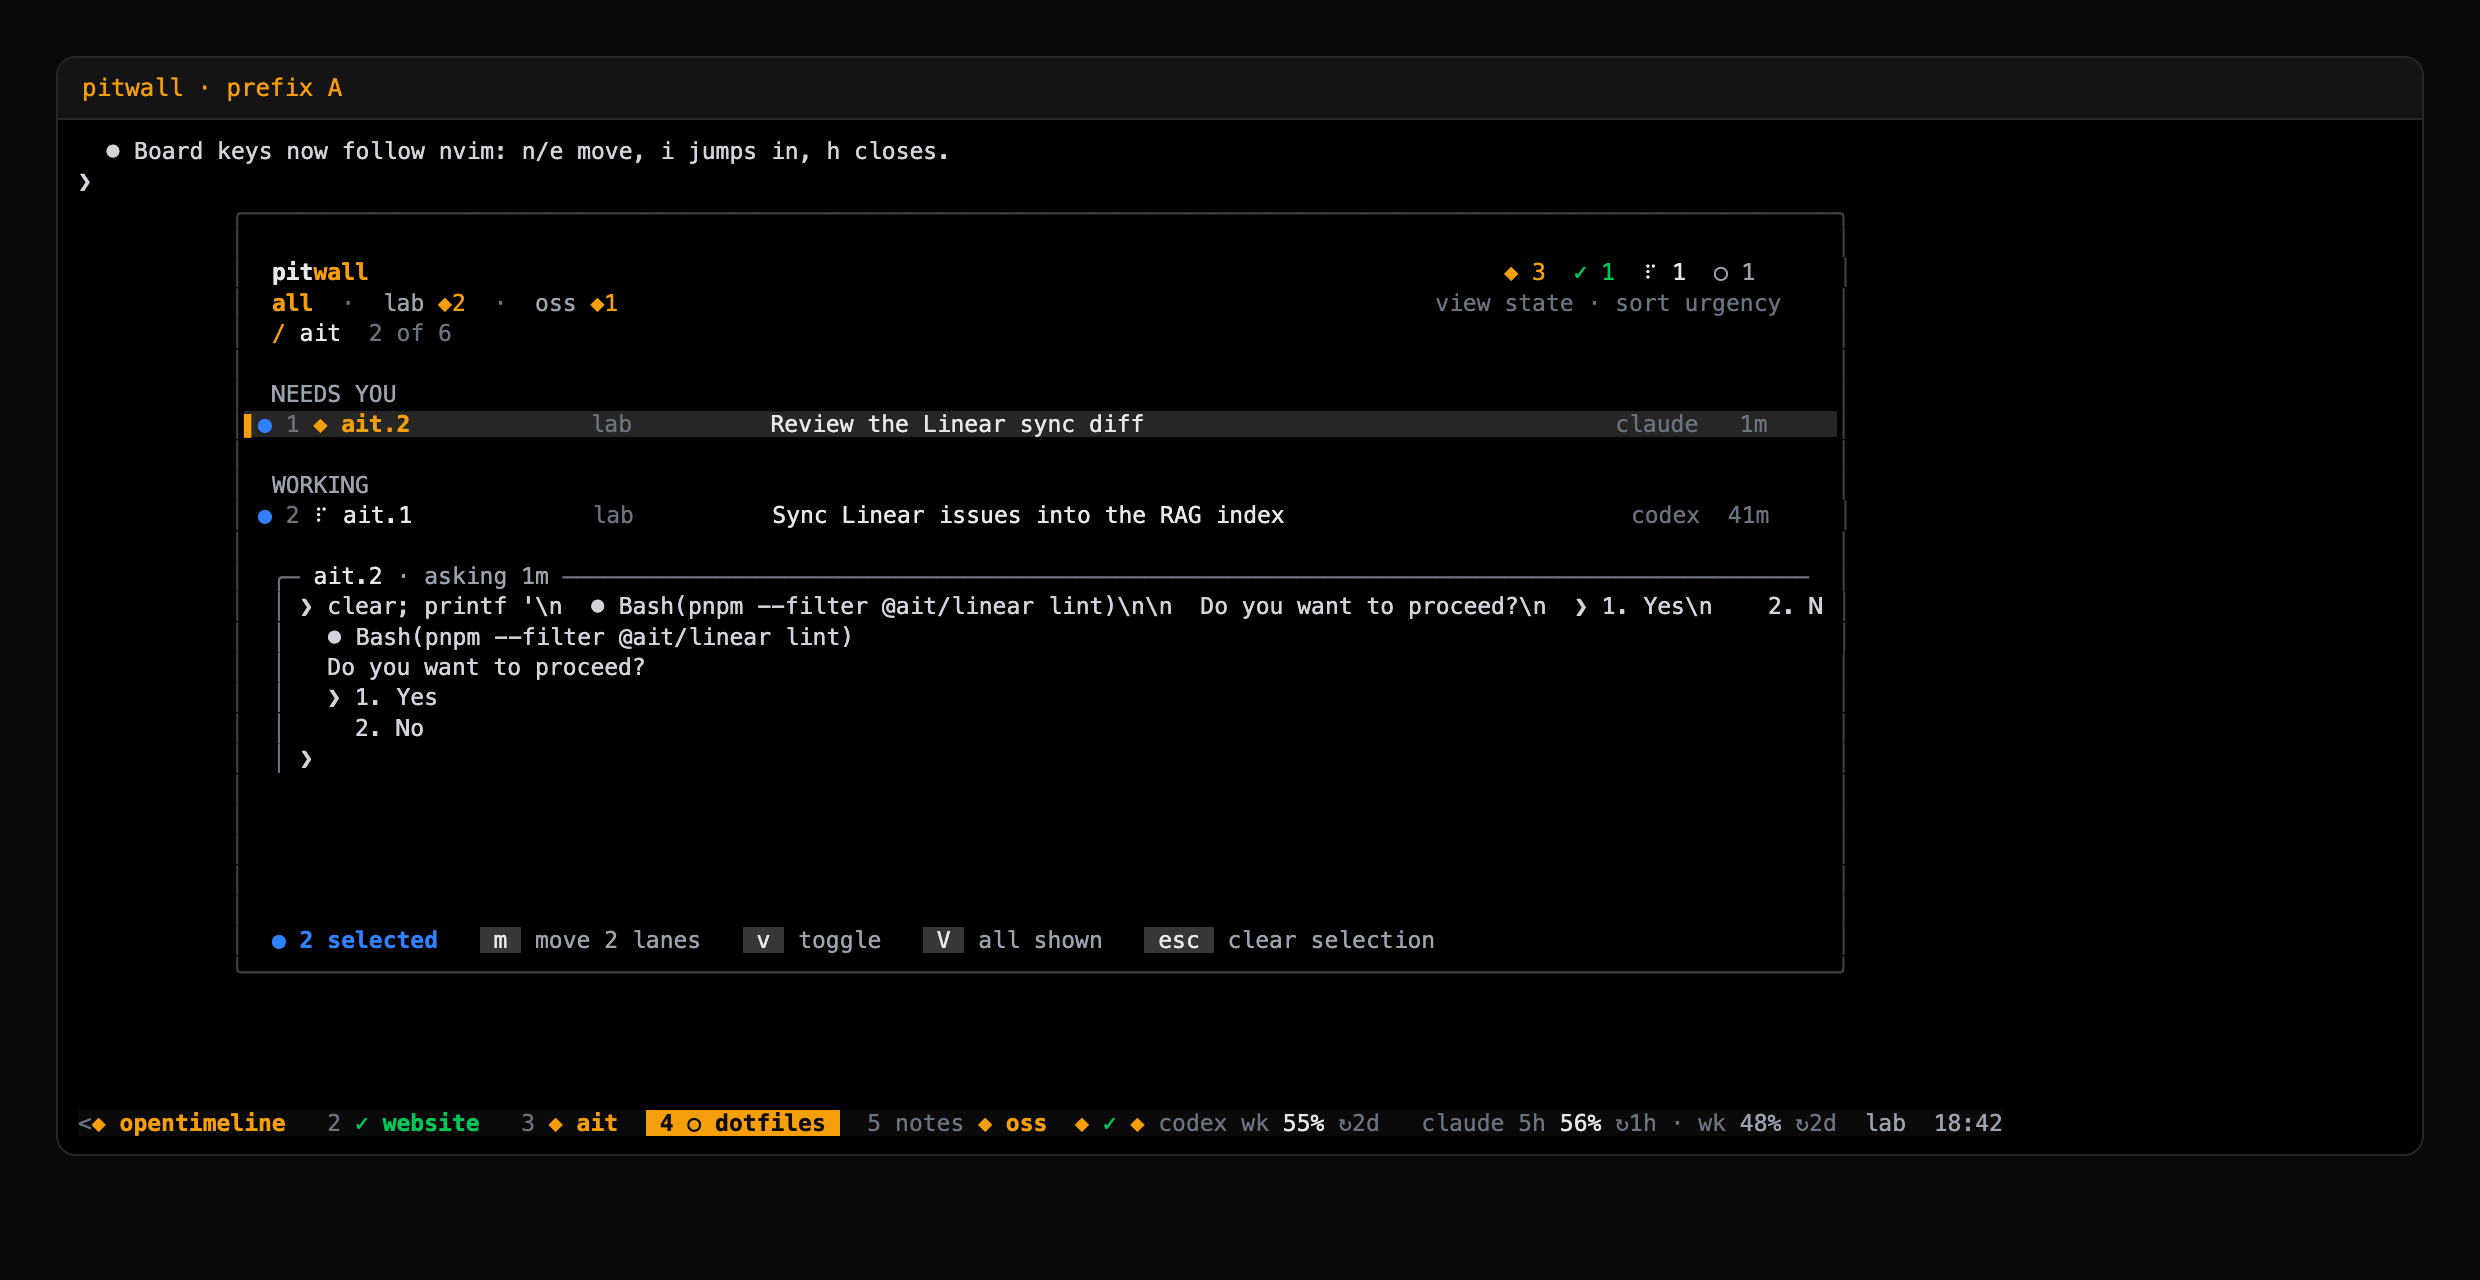
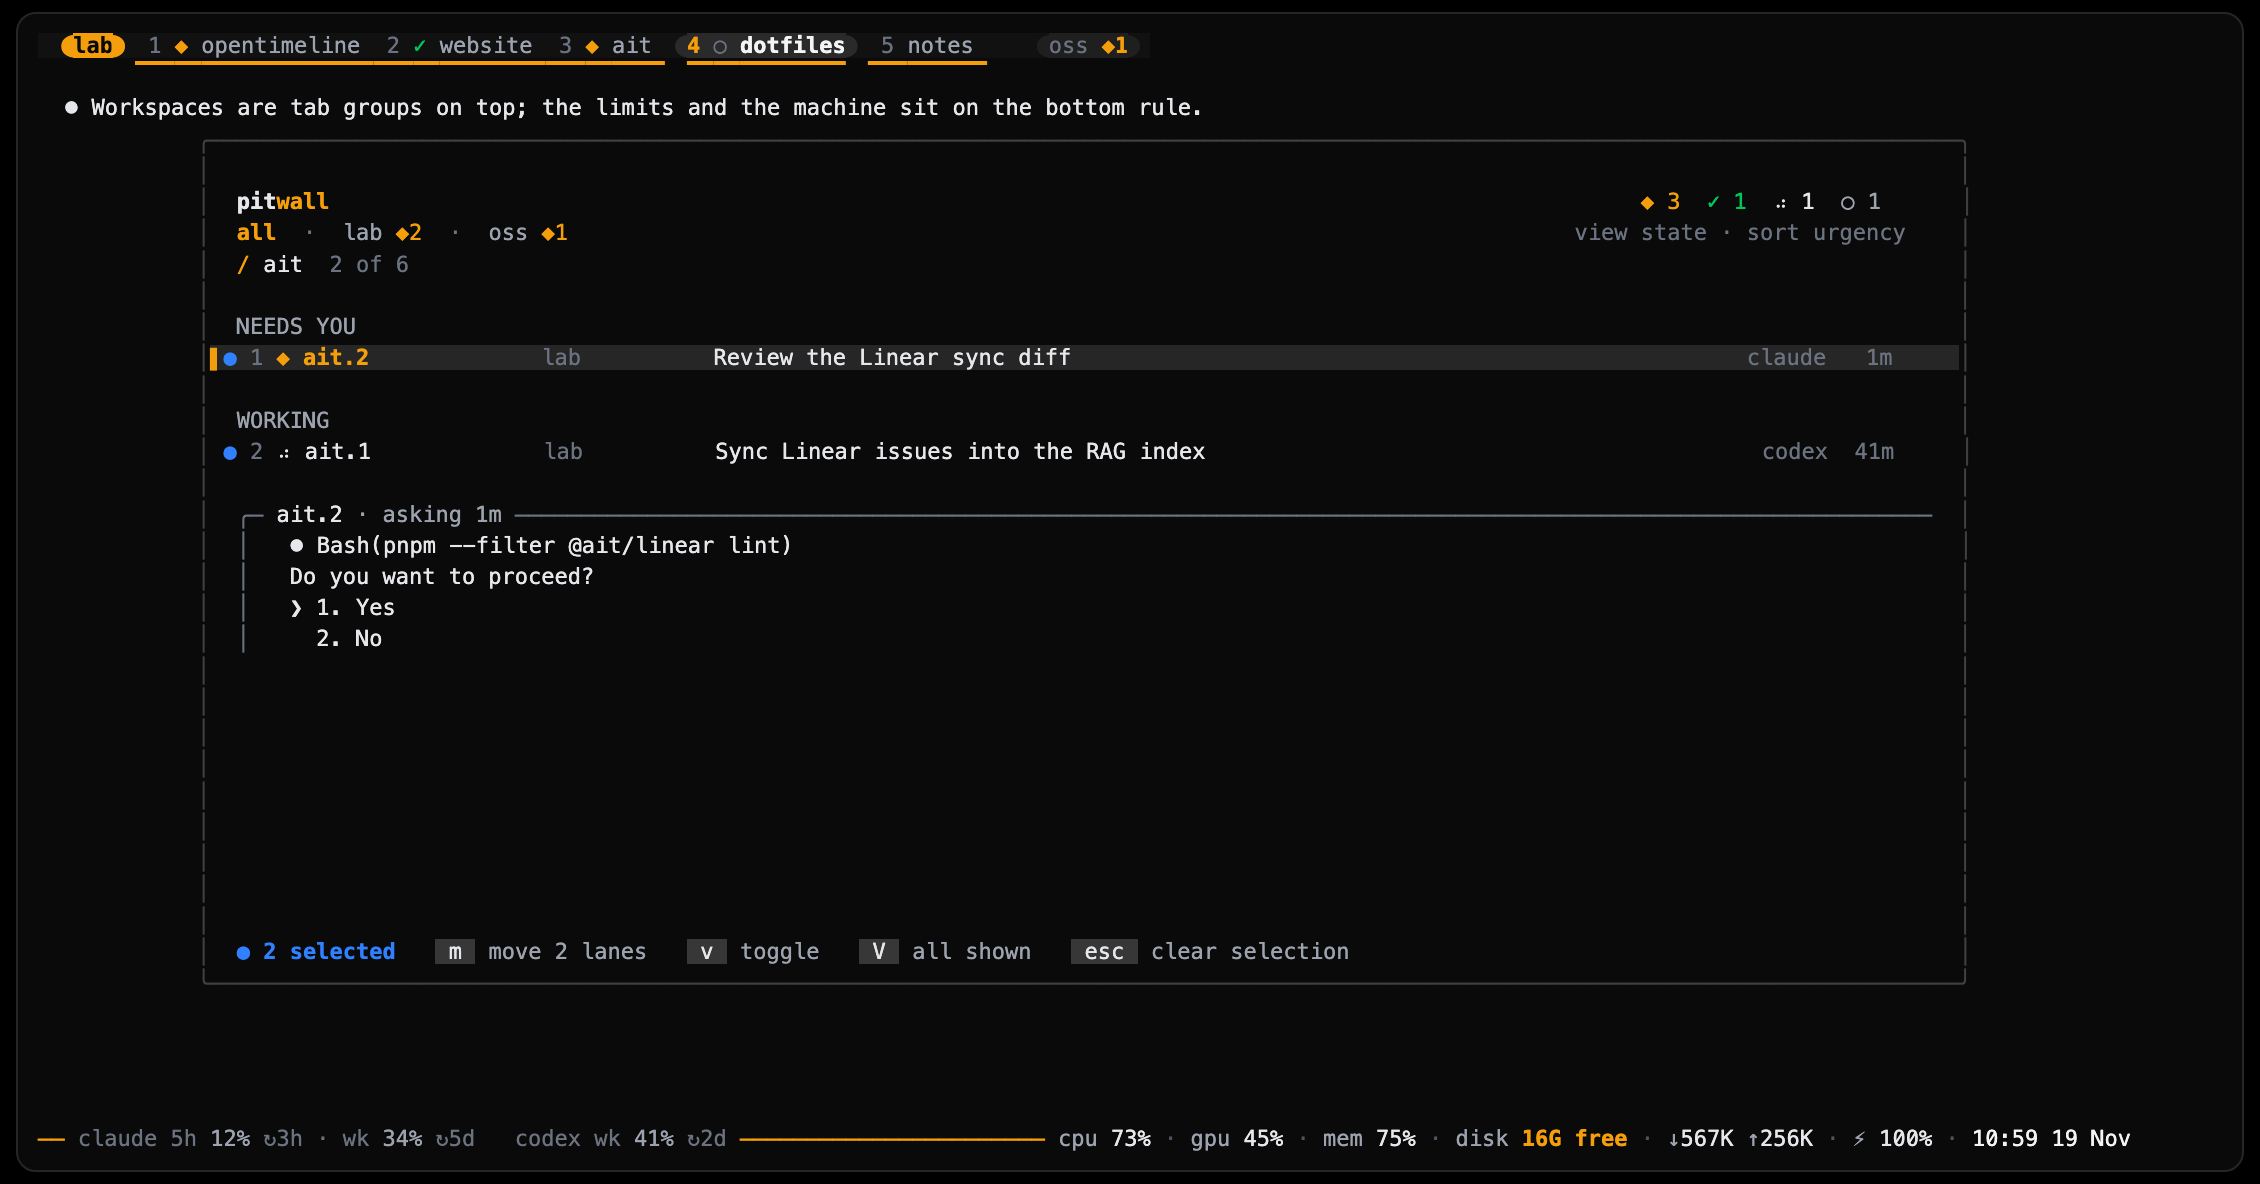
fix: the demo runs the tabs layout and shows its lanes without the commands that draw them

diff --git a/README.md b/README.md
@@ -1,7 +1,7 @@
 # pitwall
 
 <p align="center">
-  <img src="preview/pitwall-board.png" alt="The pitwall board over a tmux session: tabs for the lab and oss workspaces, a filter reading / ait that leaves two of six lanes, both selected with a blue dot, the one under the cursor asking for a permission shown in the live preview, and a footer reading 2 selected, m move 2 lanes." width="820">
+  <img src="preview/pitwall-board.png" alt="The pitwall board over the tabs layout: on top the lab workspace open into numbered tabs under an amber underline and oss as a pill with one lane asking. In the board a filter reading / ait leaves two of six lanes, both selected with a blue dot; the one under the cursor, asking for a permission, shows in the live preview; the footer reads 2 selected, m move 2 lanes. At the bottom a thin rule with the usage limits and the machine." width="820">
 </p>
 
 <p align="center">
